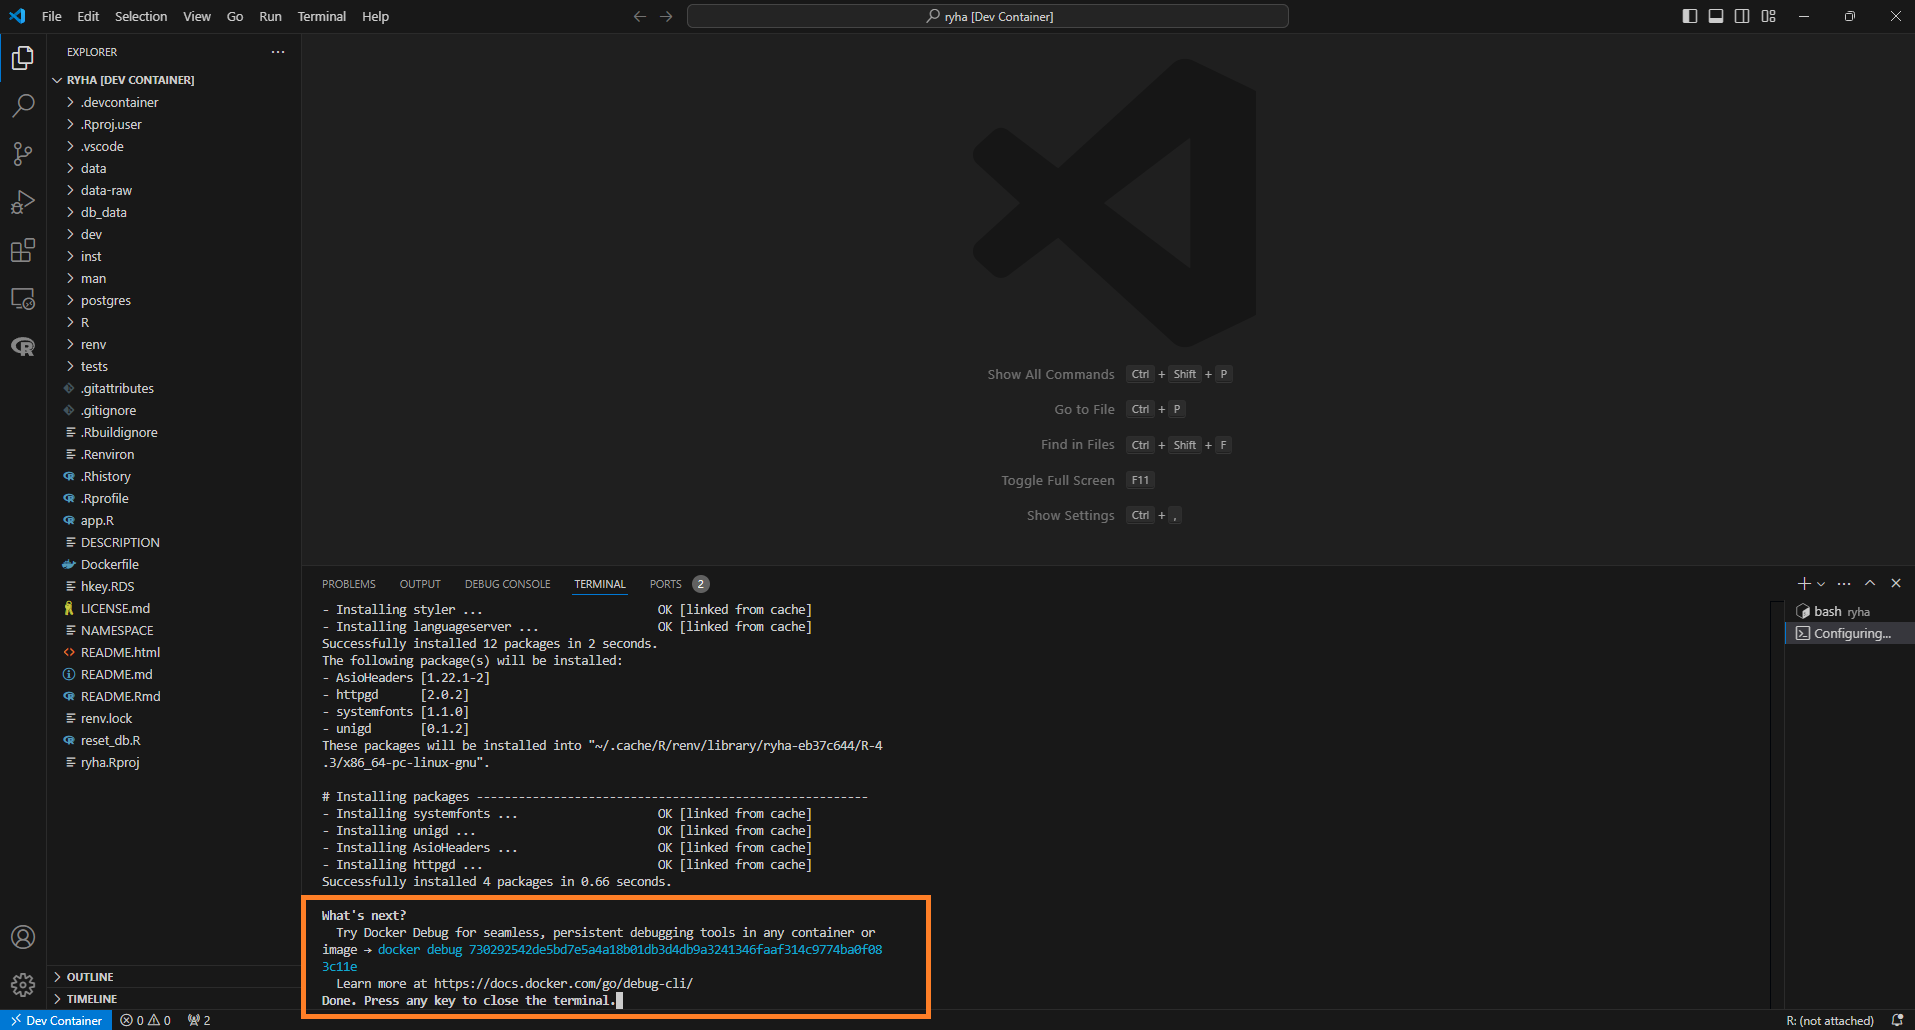
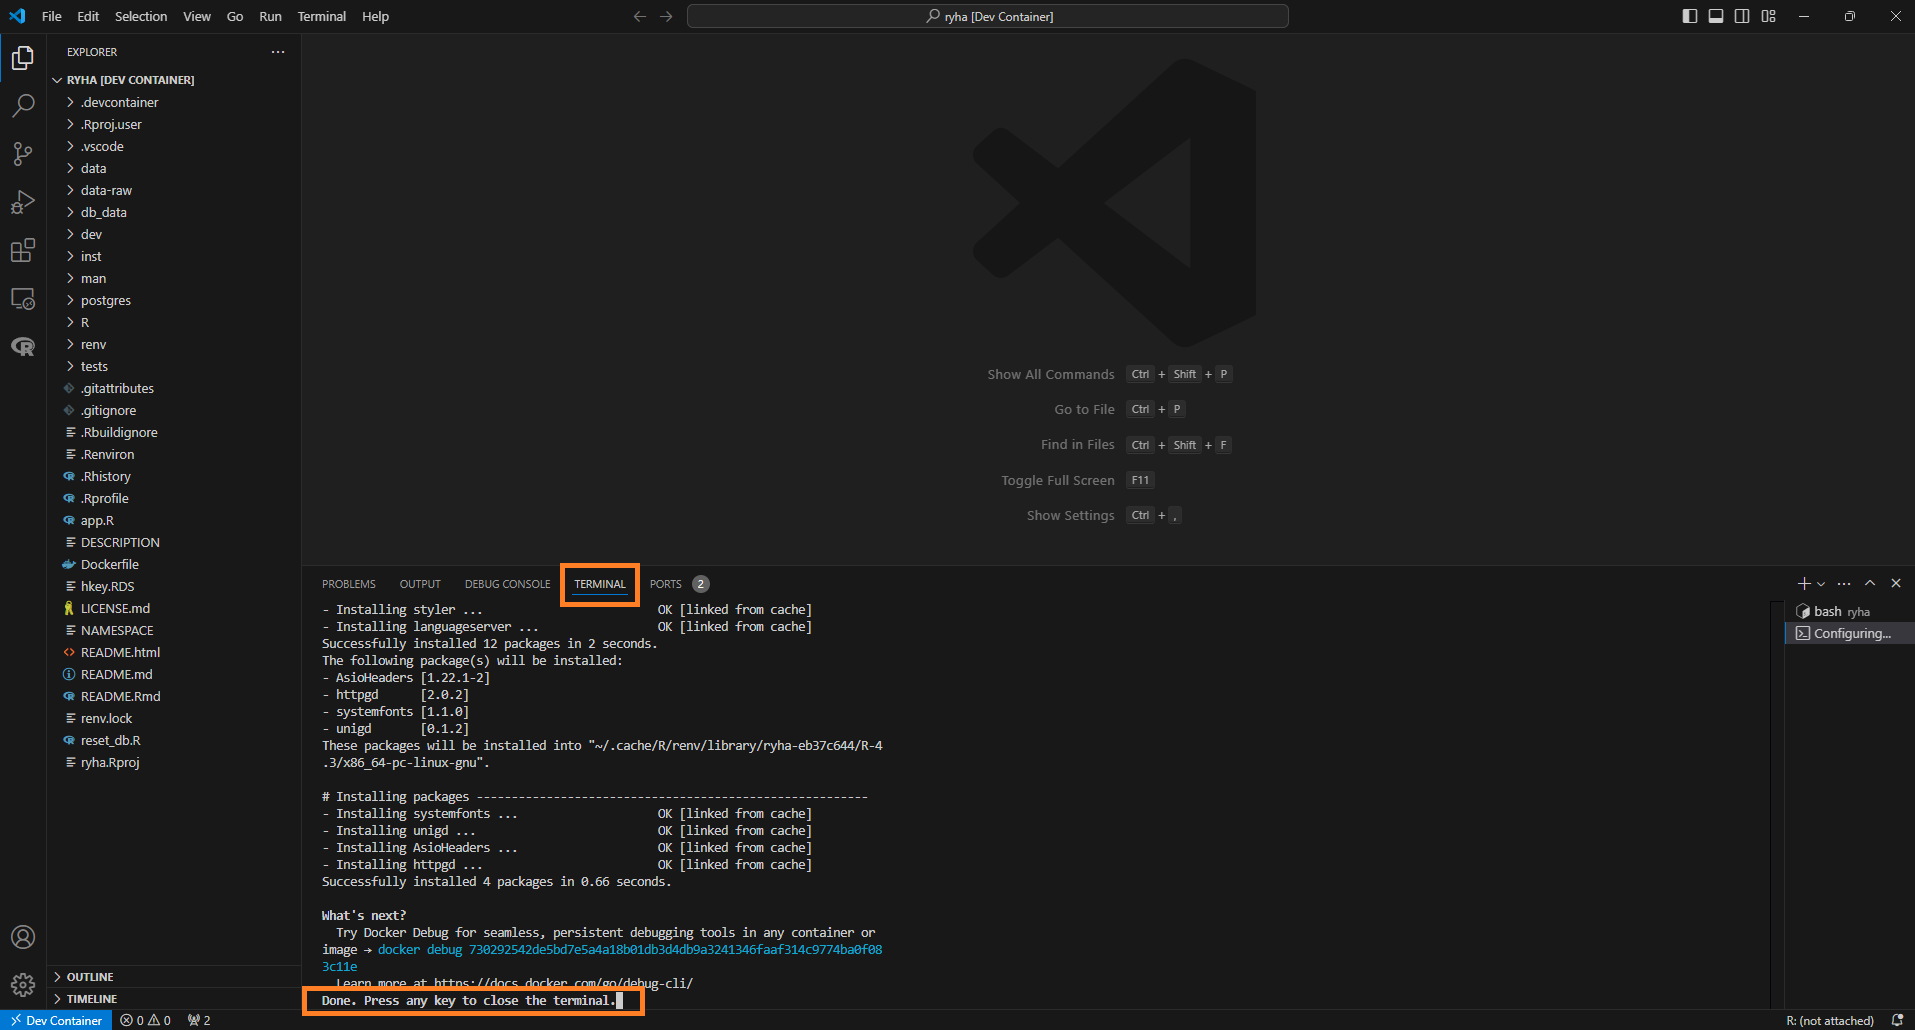
Update README
Updated Quickstart and Remove Dev Container sections

Changed region(s): [[0.154, 0.932, 0.493, 0.9942], [0.154, 0.8699, 0.493, 0.901], [0.2773, 0.5282, 0.3389, 0.5903]]

diff --git a/README.md b/README.md
@@ -200,24 +200,23 @@ Container** from the Command Palette (`F1`) to perform this action.
 
 The Dev Container initialization may take a few minutes, as it needs to
 create different Docker images and install the corresponding R packages
-via `renv::restore()`. The following message indicates that the process
-has completed successfully:
+via `renv::restore()`.
+
+The message `Done. Press any key to close the terminal.` in `TERMINAL`
+tab indicates that the process completed successfully:
 
 ![](man/figures/README/quickstart-finish.png)
-
-As the message indicates, “Press any key to close the terminal”.
 
 *NOTE*: If you encounter any errors, you can review the logs to
 troubleshoot or contact a team member for assistance.
 
-To launch an R Terminal click **Launch Profile…** (icon next to the `+`
-symbol) and select **R Terminal**:
+To launch an R Terminal, select **R: Create R terminal** from the
+Command Palette (`F1`). Alternatively, you can click the `⌄` icon in VS
+Code Panel and select **R Terminal**:
 
-![](man/figures/README/quickstart-open-r-1.png)
+![](man/figures/README/quickstart-open-r.png)
 
-You can click on the R Terminal in the right sidebar to open it:
-
-![](man/figures/README/quickstart-open-r-2.png)
+Remember to select the R Terminal in the right sidebar to open it.
 
 ### Exit Dev Container
 
@@ -236,10 +235,10 @@ and select one of the following commands:
 
 ![](man/figures/README/exit-container.png)
 
-### Remove Container and Image
+### Remove Dev Container
 
 Once you’ve **exited the Dev Container**, you may want to remove the
-container and its associated image to free up system resources.
+container and its associated images to free up system resources.
 
 While the following steps demonstrate how to do so using Docker Desktop,
 you are free to accomplish the same tasks using Docker’s command-line
@@ -253,17 +252,14 @@ interface.
 
 ![](man/figures/README/delete-container.png)
 
-#### Remove Image
+#### Remove Images
 
 1.  Go to Images tab
-2.  Locate the images associated with you Dev Container and click the
+2.  Locate the images associated with your Dev Container and click the
     corresponding trash icons to remove them from your local Docker
     repository
 
 ![](man/figures/README/delete-images.png)
-
-Following these steps ensures that all resources associated with the Dev
-Container are completely cleaned up from your system.
 
 ### Container Details
 
